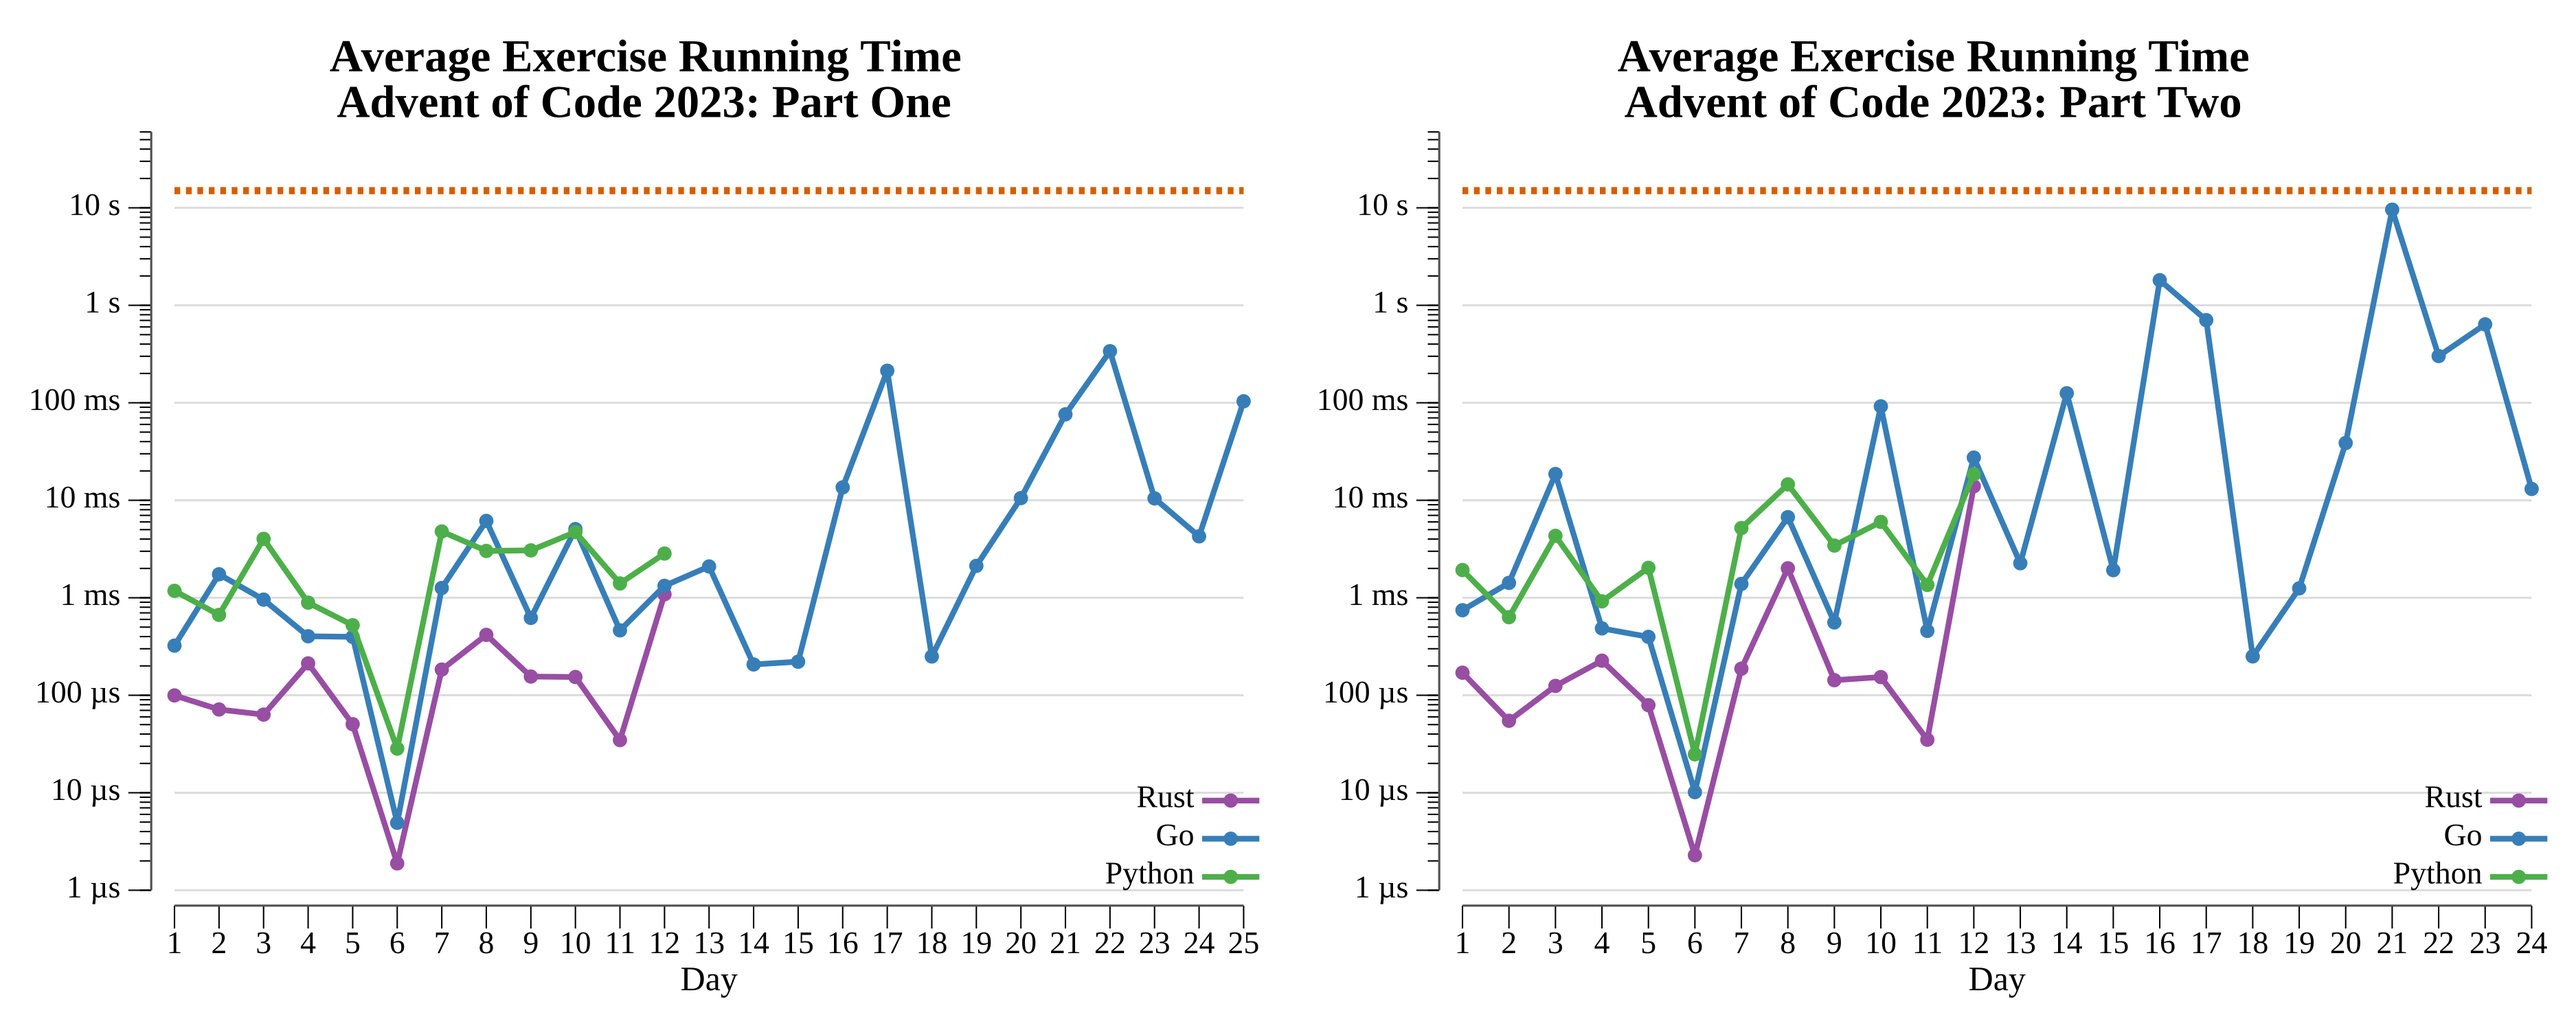
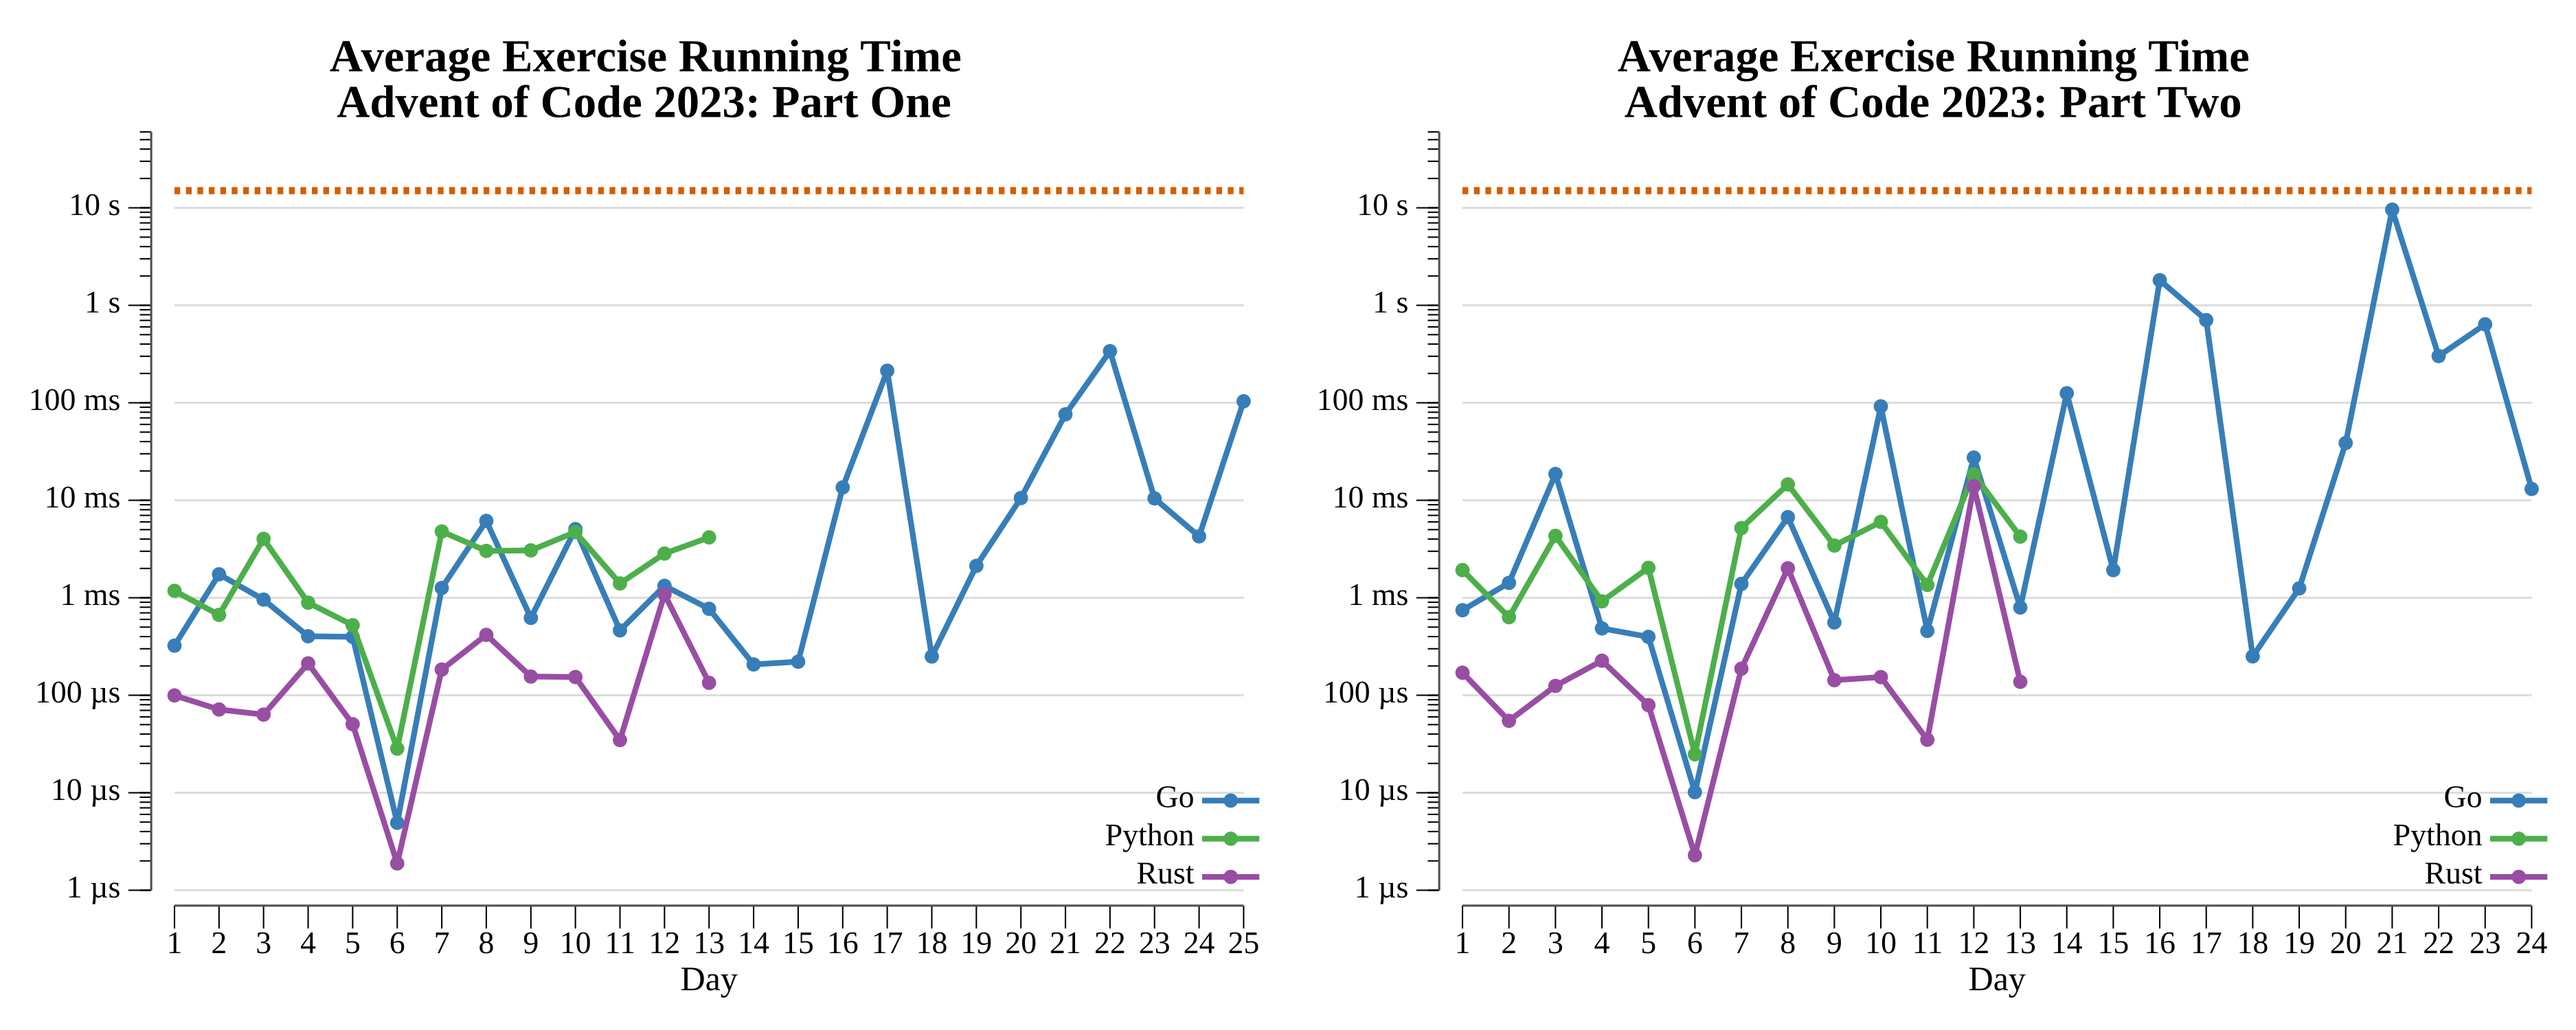
add rust/py to 2023 day 13

diff --git a/exercises/2023/13-pointOfIncidence/rs/src/solution.rs b/exercises/2023/13-pointOfIncidence/rs/src/solution.rs
@@ -1,0 +1,61 @@
+// Solution for Advent of Code 2023 day 13.
+//
+// Each pattern is summarized by its mirror line. Encoding every row and every
+// column as an integer bitmask ('#' = 1) turns a reflection test into XOR: a
+// mirror after line i is valid when the bit differences across all folded pairs
+// sum to the target — 0 for a perfect mirror (part one) or exactly 1 for the
+// single smudge (part two). `count_ones` on the XOR gives each pair's difference.
+
+/// Bitmask rows for a block, and the same for its transpose (columns).
+fn rows_and_cols(block: &str) -> (Vec<u32>, Vec<u32>) {
+    let grid: Vec<&[u8]> = block.lines().map(str::as_bytes).collect();
+    let h = grid.len();
+    let w = grid[0].len();
+
+    let mut rows = vec![0u32; h];
+    let mut cols = vec![0u32; w];
+    for (r, line) in grid.iter().enumerate() {
+        for (c, &ch) in line.iter().enumerate() {
+            if ch == b'#' {
+                rows[r] |= 1 << c;
+                cols[c] |= 1 << r;
+            }
+        }
+    }
+    (rows, cols)
+}
+
+/// The mirror index (lines above the reflection) whose folded pairs differ by
+/// exactly `smudges` bits, or 0 if none.
+fn reflection(lines: &[u32], smudges: u32) -> u32 {
+    for i in 1..lines.len() {
+        let diff: u32 = lines[..i]
+            .iter()
+            .rev()
+            .zip(&lines[i..])
+            .map(|(a, b)| (a ^ b).count_ones())
+            .sum();
+        if diff == smudges {
+            return i as u32;
+        }
+    }
+    0
+}
+
+fn summary(input: &str, smudges: u32) -> u32 {
+    input
+        .split("\n\n")
+        .map(|block| {
+            let (rows, cols) = rows_and_cols(block);
+            100 * reflection(&rows, smudges) + reflection(&cols, smudges)
+        })
+        .sum()
+}
+
+pub fn part_one(input: &str) -> String {
+    summary(input, 0).to_string()
+}
+
+pub fn part_two(input: &str) -> String {
+    summary(input, 1).to_string()
+}

diff --git a/exercises/2023/13-pointOfIncidence/py/__init__.py b/exercises/2023/13-pointOfIncidence/py/__init__.py
@@ -1,0 +1,41 @@
+from typing import *
+from aocpy import BaseExercise
+
+
+def _rows_as_bits(block: list[str]) -> list[int]:
+    # Each row becomes an integer bitmask of its '#' cells.
+    return [int(row.replace(".", "0").replace("#", "1"), 2) for row in block]
+
+
+def _reflection(lines: list[int], smudges: int) -> int:
+    # A mirror after index i is valid when the total bit differences across all
+    # folded-out pairs equals `smudges` (0 for a perfect mirror, 1 for one smudge).
+    for i in range(1, len(lines)):
+        diff = sum(
+            bin(a ^ b).count("1")
+            for a, b in zip(reversed(lines[:i]), lines[i:])
+        )
+        if diff == smudges:
+            return i
+    return 0
+
+
+def _summary(instr: str, smudges: int) -> int:
+    total = 0
+    for chunk in instr.split("\n\n"):
+        block = chunk.splitlines()
+        rows = _rows_as_bits(block)
+        cols = _rows_as_bits(["".join(col) for col in zip(*block)])
+        total += 100 * _reflection(rows, smudges) + _reflection(cols, smudges)
+    return total
+
+
+# Exercise for Advent of Code 2023 day 13.
+class Exercise(BaseExercise):
+    @staticmethod
+    def one(instr: str) -> int:
+        return _summary(instr, 0)
+
+    @staticmethod
+    def two(instr: str) -> int:
+        return _summary(instr, 1)

diff --git a/exercises/2023/13-pointOfIncidence/README.md b/exercises/2023/13-pointOfIncidence/README.md
@@ -33,8 +33,37 @@ Solving...
 
 ## Python
 
+Rows and columns are encoded as integer bitmasks, so a reflection test becomes
+XOR: a mirror is valid when the bit differences across the folded pairs sum to
+the target. Part one wants a perfect mirror (0); part two wants exactly one
+smudge (1) — the only difference between the parts.
+
 ```text
-< section intentionally left blank >
+──────────────────────────────────────────
+           ADVENT OF CODE 2023
+        Day 13: Point of Incidence
+──────────────────────────────────────────
+
+Solving (Python)…
+1.0:  PASS             3.976ms
+2.0:  PASS             4.014ms
+```
+
+## Rust
+
+The same bitmask/XOR idea with `u32` masks and `count_ones()` summing each folded
+pair's difference. Rows and columns are filled in a single grid pass, and both
+parts share `reflection`, parameterized by the smudge count.
+
+```text
+──────────────────────────────────────────
+           ADVENT OF CODE 2023
+        Day 13: Point of Incidence
+──────────────────────────────────────────
+
+Solving (Rust)…
+1.0:  PASS           147.735µs
+2.0:  PASS           123.411µs
 ```
 
 ## 2023 Run Times

diff --git a/exercises/2023/README.md b/exercises/2023/README.md
@@ -18,7 +18,7 @@
 | [Day 10: Pipe Maze][rm10]                     |  ⭐⭐   | [Go][go10] · [Rust][rs10] · [Python][py10] |
 | [Day 11: Cosmic Expansion][rm11]              |  ⭐⭐   | [Go][go11] · [Rust][rs11] · [Python][py11] |
 | [Day 12: Hot Springs][rm12]                   |  ⭐⭐   | [Go][go12] · [Rust][rs12] · [Python][py12] |
-| [Day 13: Point of Incidence][rm13]            |  ⭐⭐   | [Go][go13] |
+| [Day 13: Point of Incidence][rm13]            |  ⭐⭐   | [Go][go13] · [Rust][rs13] · [Python][py13] |
 | [Day 14: Parabolic Reflector Dish][rm14]      |  ⭐⭐   | [Go][go14] |
 | [Day 15: Lens Library][rm15]                  |  ⭐⭐   | [Go][go15] |
 | [Day 16: The Floor Will Be Lava][rm16]        |  ⭐⭐   | [Go][go16] |
@@ -120,6 +120,8 @@ Day       Time   Rank  Score       Time   Rank  Score
 [py12]: 12-hotSprings/py
 [rm13]: 13-pointOfIncidence/README.md
 [go13]: 13-pointOfIncidence/go
+[rs13]: 13-pointOfIncidence/rs
+[py13]: 13-pointOfIncidence/py
 [rm14]: 14-parabolicReflectorDish/README.md
 [go14]: 14-parabolicReflectorDish/go
 [rm15]: 15-lensLibrary/README.md
